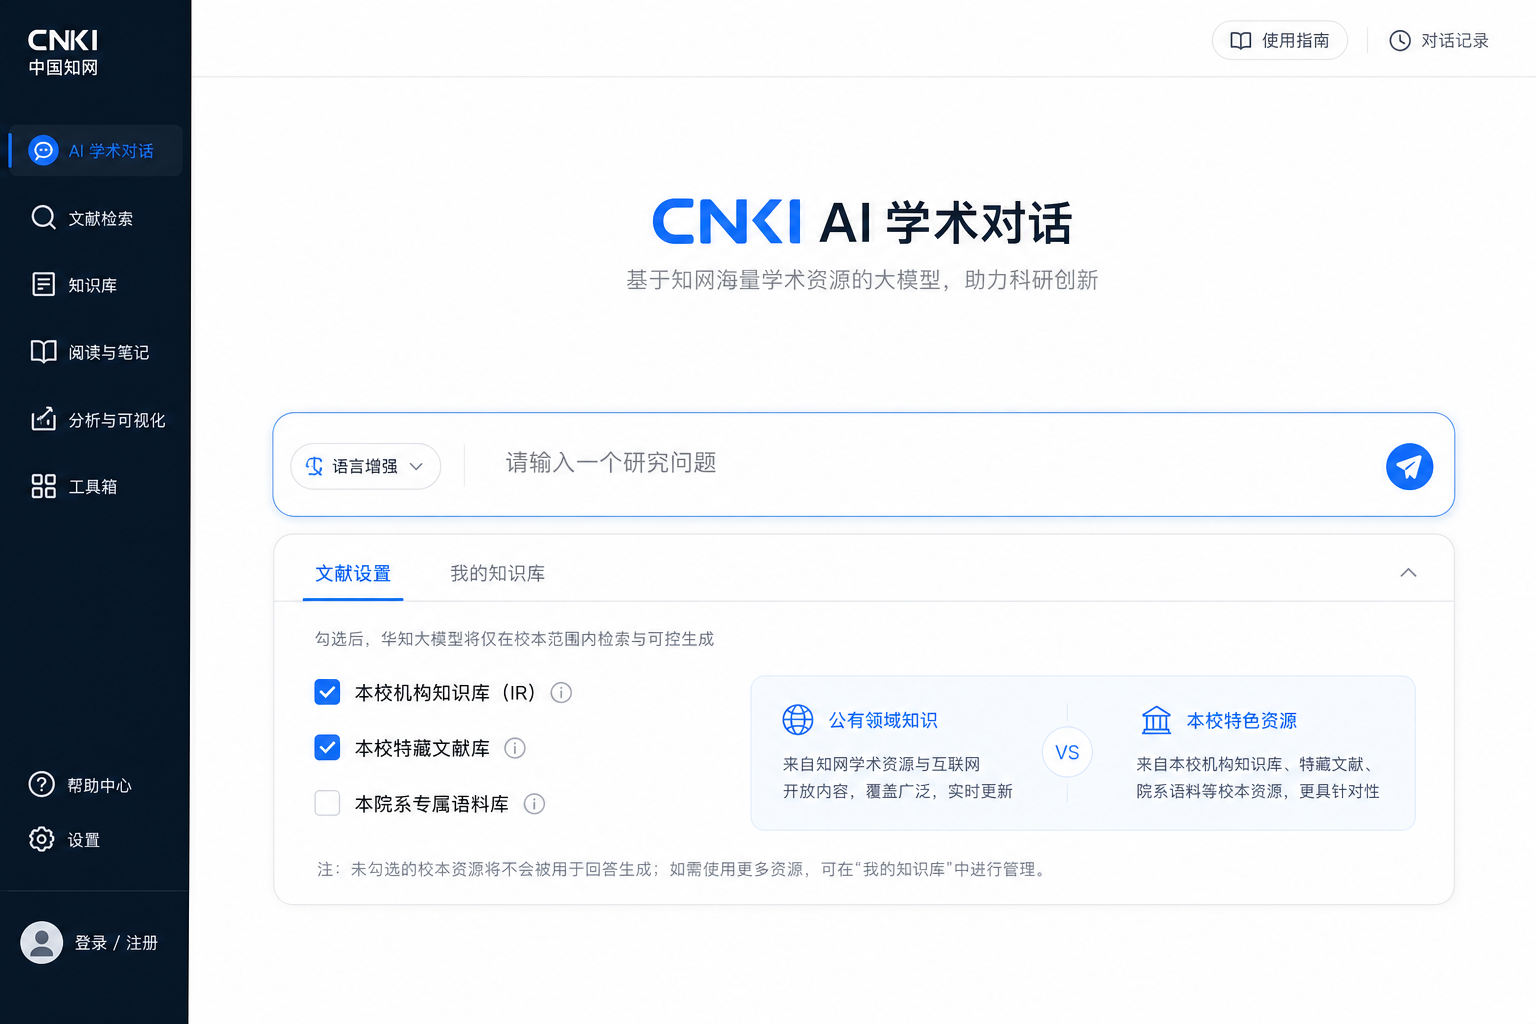
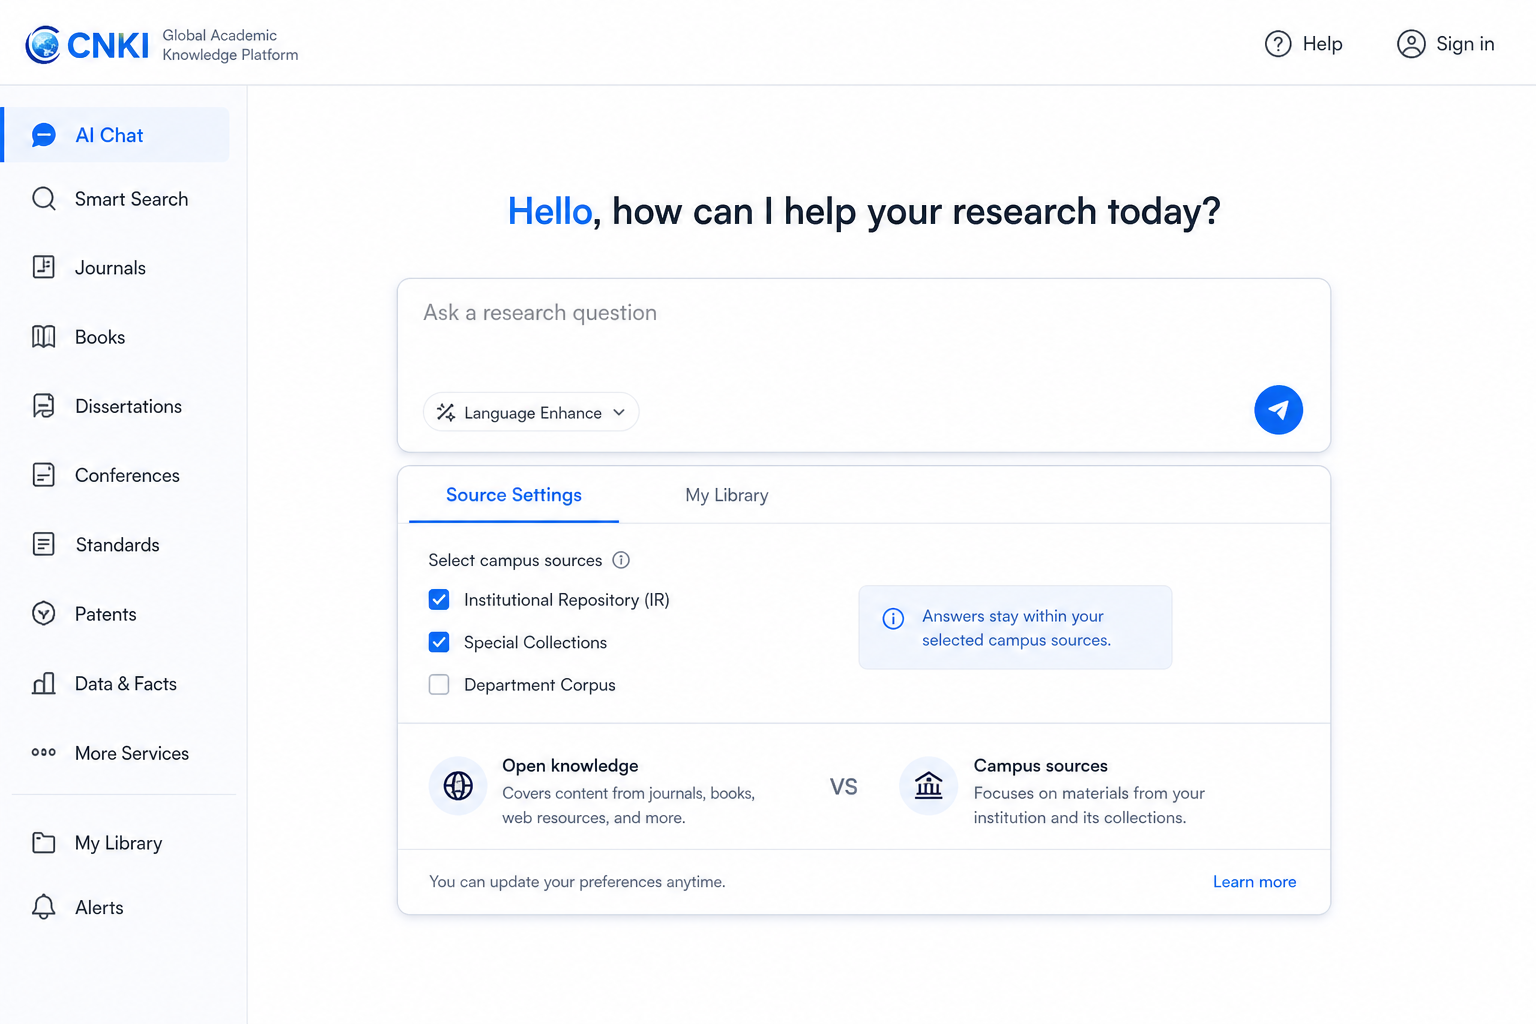
Revise prototypes to white-blue English international UI
Replace dark nav/header chrome with light white-blue layout,
tighten visual hierarchy, and rewrite all copy in concise English.

diff --git a/prototypes/index.html b/prototypes/index.html
@@ -1,15 +1,15 @@
 <!DOCTYPE html>
-<html lang="zh-CN">
+<html lang="en">
 <head>
   <meta charset="UTF-8" />
   <meta name="viewport" content="width=device-width, initial-scale=1" />
-  <title>CNKI AI 个性化需求原型</title>
+  <title>CNKI AI Personalized Prototypes</title>
   <link rel="preconnect" href="https://fonts.googleapis.com" />
   <link rel="preconnect" href="https://fonts.gstatic.com" crossorigin />
-  <link href="https://fonts.googleapis.com/css2?family=Noto+Sans+SC:wght@400;500;600;700&family=Noto+Serif+SC:wght@600&display=swap" rel="stylesheet" />
+  <link href="https://fonts.googleapis.com/css2?family=IBM+Plex+Sans:wght@400;500;600;700&family=IBM+Plex+Serif:wght@600&display=swap" rel="stylesheet" />
   <style>
     :root {
-      --bg: #f3f7fb;
+      --bg: #f5f8fc;
       --ink: #152033;
       --muted: #5b6b80;
       --line: #d7e2ef;
@@ -22,11 +22,11 @@
 
     body {
       margin: 0;
-      font-family: "Noto Sans SC", sans-serif;
+      font-family: "IBM Plex Sans", sans-serif;
       color: var(--ink);
       background:
-        radial-gradient(1200px 500px at 10% -10%, #dcecff 0%, transparent 55%),
-        radial-gradient(900px 400px at 90% 0%, #eef5ff 0%, transparent 50%),
+        radial-gradient(1100px 480px at 8% -12%, #dcecff 0%, transparent 55%),
+        radial-gradient(900px 420px at 92% 0%, #eef5ff 0%, transparent 50%),
         var(--bg);
       line-height: 1.6;
     }
@@ -37,15 +37,12 @@
       padding: 48px 24px 80px;
     }
 
-    header {
-      margin-bottom: 40px;
-    }
+    header { margin-bottom: 40px; }
 
     header h1 {
-      font-family: "Noto Serif SC", serif;
+      font-family: "IBM Plex Serif", serif;
       font-size: clamp(1.8rem, 3vw, 2.4rem);
       margin: 0 0 12px;
-      letter-spacing: 0.02em;
     }
 
     header p {
@@ -112,14 +109,9 @@
 
     .points li { margin-bottom: 6px; }
 
-    .gallery {
-      display: grid;
-      gap: 20px;
-    }
+    .gallery { display: grid; gap: 20px; }
 
-    figure {
-      margin: 0;
-    }
+    figure { margin: 0; }
 
     figure img {
       width: 100%;
@@ -144,109 +136,109 @@
 <body>
   <div class="wrap">
     <header>
-      <h1>CNKI AI 个性化需求原型</h1>
-      <p>基于现有问答首页结构，按五项机构个性化需求绘制高保真页面原型，展示从身份绑定、校本可控生成、双栏溯源、实体引导到 AI 伴读的完整终端闭环。</p>
+      <h1>CNKI AI Personalized Prototypes</h1>
+      <p>White-and-blue, international-style mockups for five campus personalization features—from identity linking and source-scoped answers to dual-column tracing, entity guidance, and AI reading.</p>
       <nav>
-        <a href="#req1">（一）身份互认与专属看板</a>
-        <a href="#req2">（二）文献设置</a>
-        <a href="#req3">（三）双栏溯源</a>
-        <a href="#req4">（四）实体引导</a>
-        <a href="#req5">（五）AI 伴读</a>
+        <a href="#req1">1. Identity &amp; Dashboard</a>
+        <a href="#req2">2. Source Settings</a>
+        <a href="#req3">3. Source Tracing</a>
+        <a href="#req4">4. Entity Guidance</a>
+        <a href="#req5">5. AI Reading</a>
       </nav>
     </header>
 
     <section id="req1">
-      <div class="tag">需求一 · 2 张</div>
-      <h2>智能身份互认与「本校专属」服务入口</h2>
-      <p class="desc">校园网 IP 自动绑定；校外登录后一键关联机构账号；主页切换为图书馆定制的本校学术发现 Dashboard。</p>
+      <div class="tag">Requirement 1 · 2 screens</div>
+      <h2>Campus identity &amp; school dashboard</h2>
+      <p class="desc">Auto-link on campus IP; one-tap institution link off campus; home becomes a school discovery dashboard.</p>
       <ul class="points">
-        <li>校内访问：IP 探测完成机构身份绑定，无感解锁专属权益</li>
-        <li>校外访问：个人知网账号一键关联本校机构账号</li>
-        <li>登录后主页展示学者成果、最新学位论文、重点研究趋势</li>
+        <li>On campus: IP detects and binds the institution</li>
+        <li>Off campus: link your CNKI account once</li>
+        <li>Dashboard shows faculty papers, new theses, and research trends</li>
       </ul>
       <div class="gallery">
         <figure>
-          <img src="images/req1-identity-bind.png" alt="校外一键关联本校机构账号" />
-          <figcaption><strong>图 1-1</strong> 校外访问时的机构账号关联弹层：一键绑定并解锁学校专属权益。</figcaption>
+          <img src="images/req1-identity-bind.png" alt="Link institution account" />
+          <figcaption><strong>1-1</strong> Off-campus modal: link your institution account in one step.</figcaption>
         </figure>
         <figure>
-          <img src="images/req1-school-dashboard.png" alt="本校学术发现专属 Dashboard" />
-          <figcaption><strong>图 1-2</strong> 绑定后的「本校学术发现专属 Dashboard」：学者成果 / 学位论文 / 研究趋势。</figcaption>
+          <img src="images/req1-school-dashboard.png" alt="School discovery dashboard" />
+          <figcaption><strong>1-2</strong> School Discovery Dashboard with IP auto-link notice.</figcaption>
         </figure>
       </div>
     </section>
 
     <section id="req2">
-      <div class="tag">需求二 · 1 张</div>
-      <h2>主动式「文献设置」：可控范围内的生成式解答</h2>
-      <p class="desc">在输入区提供「文献设置 / 我的知识库」，让用户主动区分公有知识与本校特色资源，并收缩检索边界。</p>
+      <div class="tag">Requirement 2 · 1 screen</div>
+      <h2>Source settings for scoped answers</h2>
+      <p class="desc">Let users choose campus sources before asking, so generation stays within selected collections.</p>
       <ul class="points">
-        <li>输入框下方打开文献设置面板</li>
-        <li>可勾选本校 IR、特藏文献库、院系专属语料库</li>
-        <li>勾选后模型仅在校本范围内聚类与可控生成</li>
+        <li>Open Source Settings under the input</li>
+        <li>Toggle IR, Special Collections, Department Corpus</li>
+        <li>Model retrieval shrinks to the selected campus scope</li>
       </ul>
       <div class="gallery">
         <figure>
-          <img src="images/req2-literature-settings.png" alt="文献设置面板" />
-          <figcaption><strong>图 2-1</strong> 「文献设置」面板：一键限定本校库源，明确公有知识与校本资源边界。</figcaption>
+          <img src="images/req2-literature-settings.png" alt="Source settings panel" />
+          <figcaption><strong>2-1</strong> Source Settings panel: open knowledge vs campus sources.</figcaption>
         </figure>
       </div>
     </section>
 
     <section id="req3">
-      <div class="tag">需求三 · 2 张</div>
-      <h2>双栏式「学术溯源模式」：打破信息黑箱</h2>
-      <p class="desc">左栏可信增强回答 + 右栏精准溯源文献；点击角标联动高亮，并可一键跳转 PDF 原文章节。</p>
+      <div class="tag">Requirement 3 · 2 screens</div>
+      <h2>Dual-column source tracing</h2>
+      <p class="desc">Grounded answer on the left; matching source cards on the right; jump to the exact PDF passage.</p>
       <ul class="points">
-        <li>左栏结论带本校标识引用角标 [1][2]</li>
-        <li>悬停/点击角标时右栏卡片即时高亮</li>
-        <li>「精准溯源」打开 PDF 并高亮对应段落/图表</li>
+        <li>Citations with school markers in the answer</li>
+        <li>Hover/click a marker to highlight the source card</li>
+        <li>Open Source jumps to the cited paragraph</li>
       </ul>
       <div class="gallery">
         <figure>
-          <img src="images/req3-dual-column-trace.png" alt="双栏学术溯源界面" />
-          <figcaption><strong>图 3-1</strong> 双栏溯源：左答右源，角标与文献卡片联动高亮。</figcaption>
+          <img src="images/req3-dual-column-trace.png" alt="Dual-column source tracing" />
+          <figcaption><strong>3-1</strong> Grounded Answer + Sources, with citation [2] linked.</figcaption>
         </figure>
         <figure>
-          <img src="images/req3-pdf-source-highlight.png" alt="PDF 精准溯源高亮" />
-          <figcaption><strong>图 3-2</strong> 一键原文章节回溯：PDF 解析视窗自动高亮答案所依据的段落。</figcaption>
+          <img src="images/req3-pdf-source-highlight.png" alt="Exact PDF source highlight" />
+          <figcaption><strong>3-2</strong> Exact Source view: PDF passage highlighted for citation [2].</figcaption>
         </figure>
       </div>
     </section>
 
     <section id="req4">
-      <div class="tag">需求四 · 2 张</div>
-      <h2>学术实体引导：从字面检索到知识导航</h2>
-      <p class="desc">输入导师、实验室、特藏名称时弹出规范实体推荐；选择后直接生成智能学者画像，而非枯燥结果列表。</p>
+      <div class="tag">Requirement 4 · 2 screens</div>
+      <h2>Entity guidance &amp; scholar profile</h2>
+      <p class="desc">Suggest people, labs, and collections as users type; open a rich scholar profile instead of a flat result list.</p>
       <ul class="points">
-        <li>智能 Prompt Guide：作者 / 机构 / 特藏实体推荐</li>
-        <li>一键进入学者画像：发表脉络、词云、基金、合作网络</li>
+        <li>Prompt guide for authors, labs, and collections</li>
+        <li>Scholar profile: timeline, keywords, grants, collaboration map</li>
       </ul>
       <div class="gallery">
         <figure>
-          <img src="images/req4-entity-prompt-guide.png" alt="智能实体推荐列表" />
-          <figcaption><strong>图 4-1</strong> 搜索框实体引导：键入导师/实验室名称时弹出规范推荐列表。</figcaption>
+          <img src="images/req4-entity-prompt-guide.png" alt="Suggested entities" />
+          <figcaption><strong>4-1</strong> Suggested entities while typing a name or lab.</figcaption>
         </figure>
         <figure>
-          <img src="images/req4-scholar-portrait.png" alt="智能学者画像" />
-          <figcaption><strong>图 4-2</strong> 智能学者画像：将本校 IR 记录转化为发表脉络与合作网络发现。</figcaption>
+          <img src="images/req4-scholar-portrait.png" alt="Scholar profile" />
+          <figcaption><strong>4-2</strong> Scholar Profile built from campus IR records.</figcaption>
         </figure>
       </div>
     </section>
 
     <section id="req5">
-      <div class="tag">需求五 · 1 张</div>
-      <h2>AI 文献伴读：本地特藏的主动研读工作流</h2>
-      <p class="desc">打开本校 IR 论文或特藏古籍后进入伴读空间：右侧 AI Summary、划词追问，研读记录回流个人中心。</p>
+      <div class="tag">Requirement 5 · 1 screen</div>
+      <h2>AI reading companion</h2>
+      <p class="desc">Read campus theses or special collections with a persistent assistant for summary and follow-ups.</p>
       <ul class="points">
-        <li>右侧常驻 AI 伴读助手，一键生成大纲与核心贡献</li>
-        <li>划词选定公式/释义后发起追问</li>
-        <li>交互记录保存至个人 Dashboard，打通发现—研读—管理闭环</li>
+        <li>Right rail: AI Summary and outline</li>
+        <li>Select text and Ask for context-aware follow-ups</li>
+        <li>Sessions save to the personal dashboard</li>
       </ul>
       <div class="gallery">
         <figure>
-          <img src="images/req5-ai-companion-reading.png" alt="AI 文献伴读空间" />
-          <figcaption><strong>图 5-1</strong> AI 伴读空间：正文划词追问 + 右侧 Summary / 伴读对话。</figcaption>
+          <img src="images/req5-ai-companion-reading.png" alt="AI reading companion" />
+          <figcaption><strong>5-1</strong> Reading Assistant with select-to-ask and AI Summary.</figcaption>
         </figure>
       </div>
     </section>

diff --git a/prototypes/README.md b/prototypes/README.md
@@ -1,24 +1,24 @@
-# CNKI AI 个性化需求原型
+# CNKI AI Personalized Prototypes
 
-高保真页面原型，对应五项机构个性化需求。本地预览：
+High-fidelity UI mockups for five campus personalization features. Design system: white/blue international style, light nav/header (no dark chrome), concise English copy.
+
+## Preview
 
 ```bash
-# 任选一种静态服务方式
 python3 -m http.server 8080 --directory prototypes
-# 然后打开 http://localhost:8080
 ```
 
-或直接打开 `prototypes/index.html`。
+Open `http://localhost:8080`, or open `prototypes/index.html` directly.
 
-## 原型清单
+## Screens
 
-| 需求 | 原型图 | 说明 |
-|------|--------|------|
-| （一）智能身份互认与本校专属入口 | `images/req1-identity-bind.png` | 校外一键关联机构账号 |
-| | `images/req1-school-dashboard.png` | 本校学术发现专属 Dashboard |
-| （二）主动式文献设置 | `images/req2-literature-settings.png` | 文献设置 / 我的知识库面板 |
-| （三）双栏学术溯源模式 | `images/req3-dual-column-trace.png` | 左答右源联动高亮 |
-| | `images/req3-pdf-source-highlight.png` | PDF 精准溯源段落高亮 |
-| （四）学术实体引导 | `images/req4-entity-prompt-guide.png` | 智能实体推荐列表 |
-| | `images/req4-scholar-portrait.png` | 智能学者画像 |
-| （五）AI 文献伴读 | `images/req5-ai-companion-reading.png` | 伴读侧栏 + 划词追问 |
+| Requirement | File | Notes |
+|-------------|------|-------|
+| 1. Identity & dashboard | `images/req1-identity-bind.png` | Off-campus institution link |
+| | `images/req1-school-dashboard.png` | School Discovery Dashboard |
+| 2. Source settings | `images/req2-literature-settings.png` | Scope answers to campus sources |
+| 3. Source tracing | `images/req3-dual-column-trace.png` | Dual-column grounded answer |
+| | `images/req3-pdf-source-highlight.png` | Exact PDF passage highlight |
+| 4. Entity guidance | `images/req4-entity-prompt-guide.png` | Suggested entities |
+| | `images/req4-scholar-portrait.png` | Scholar profile |
+| 5. AI reading | `images/req5-ai-companion-reading.png` | Reading Assistant workspace |

diff --git a/README.md b/README.md
@@ -1,15 +1,13 @@
-# CNKI AI 个性化需求原型
+# CNKI AI Personalized Prototypes
 
-本仓库包含 CNKI AI / 华知文思机构个性化五项需求的高保真页面原型。
+High-fidelity page mockups for five campus personalization features.
 
-## 快速预览
+## Preview
 
-打开 [`prototypes/index.html`](prototypes/index.html)，或：
+Open [`prototypes/index.html`](prototypes/index.html), or:
 
 ```bash
 python3 -m http.server 8080 --directory prototypes
 ```
 
-浏览器访问 `http://localhost:8080`。
-
-详细说明见 [`prototypes/README.md`](prototypes/README.md)。
+See [`prototypes/README.md`](prototypes/README.md) for the full screen list.
